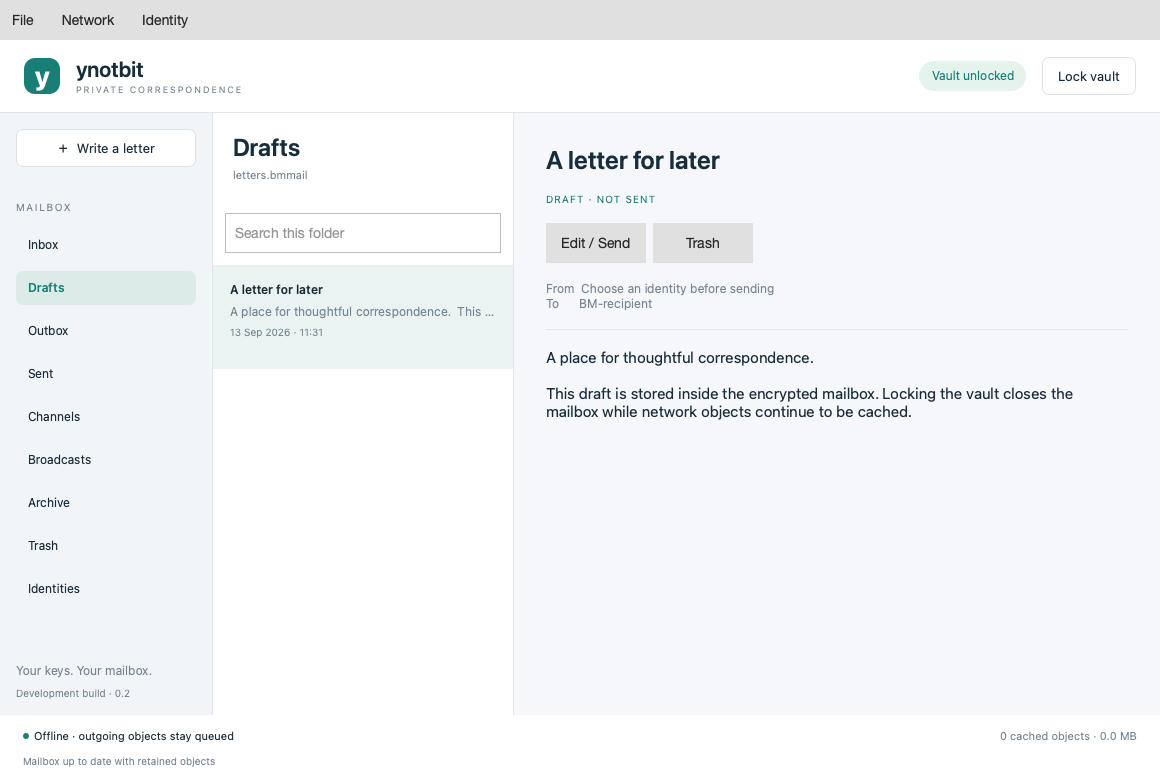
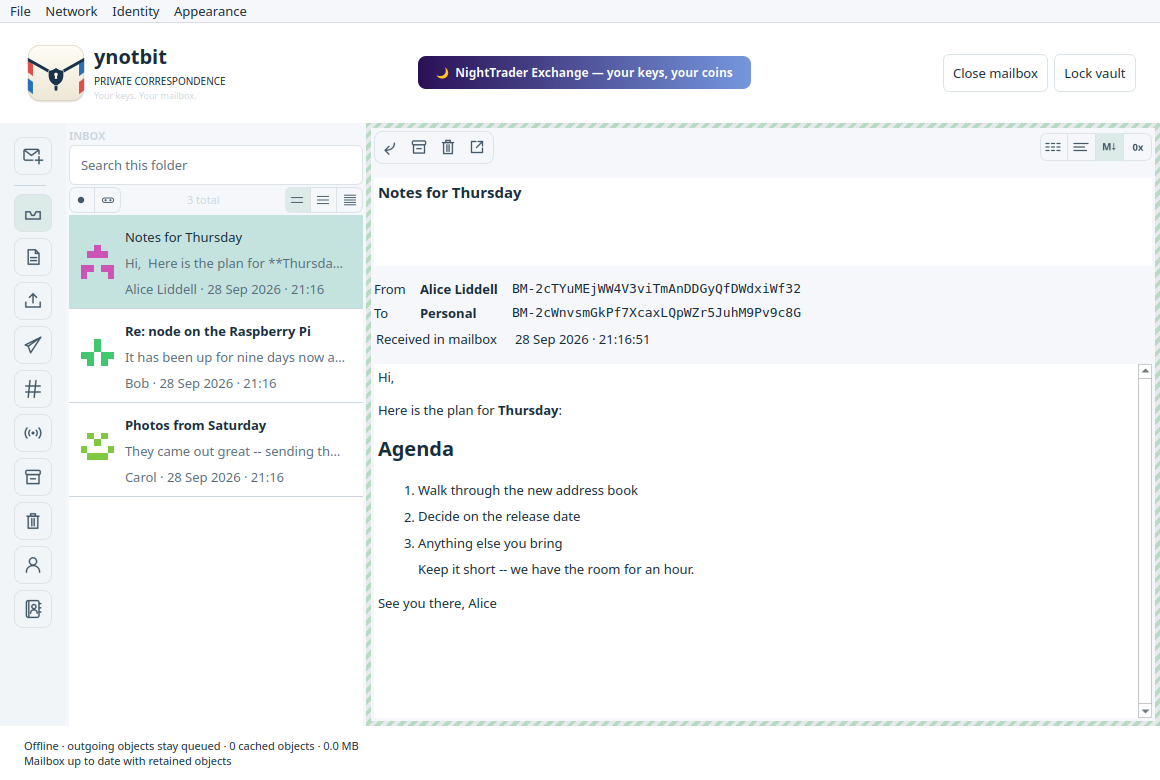
docs: README for 0.5.0 with new screenshots
- New screenshots of the reader, a chan, the address book and the
  composer, rendered from demo data by tools/readme_screenshots
  (built only on request: --target readme_screenshots).
- Describes the address book, chan naming and collapsible list, reader
  views, and notbit on Windows; drops the outdated Qt-relay-on-Windows
  note.

Claude-Session: https://claude.ai/code/session_01GrgRf6yWsg7FyYHpHrsFF4

diff --git a/tools/readme_screenshots.cpp b/tools/readme_screenshots.cpp
@@ -1,0 +1,148 @@
+// Renders the README screenshots from a throwaway demo vault and mailbox:
+//   readme_screenshots <output-dir>
+// Not a test: it only builds realistic sample data and grabs the window.
+#include "desktop_window.h"
+#include "protocol.h"
+#include "session.h"
+#include <QTest>
+#include <QtWidgets>
+#include <iostream>
+
+int main(int argc, char **argv) {
+    QApplication::setAttribute(Qt::AA_DontUseNativeDialogs);
+    QApplication app(argc, argv);
+    app.setOrganizationName("YnotbitScreenshots");
+    app.setApplicationName("Readme");
+    if (argc < 2) {
+        std::cerr << "usage: readme_screenshots <output-dir>\n";
+        return 2;
+    }
+    const QString out = QString::fromLocal8Bit(argv[1]);
+    QDir().mkpath(out);
+    QTemporaryDir temp;
+
+    // People ynotbit's user writes to. Their addresses are real, generated keys.
+    const auto alice = bm::Protocol::identity("readme Alice").address;
+    const auto bob = bm::Protocol::identity("readme Bob").address;
+    const auto carol = bm::Protocol::identity("readme Carol").address;
+
+    bm::Vault vault;
+    vault.create(temp.filePath("vault"), "demo password");
+    const auto me = vault.addIdentity("Personal");
+    const auto general = vault.addChannel("general", {});
+    vault.addChannel("privacy", {});
+    auto key = vault.addMailboxKey();
+    bm::Mailbox mailbox;
+    mailbox.create(temp.filePath("mailbox"), key, vault.mailboxKey(key));
+    qint64 n = 0;
+    auto store = [&](const QString &from, const QString &to, const QString &subject,
+                     const QString &body, const QString &folder) {
+        mailbox.store("demo-" + QString::number(++n), from, to, subject, body, n, folder);
+    };
+    store(carol, me, "Photos from Saturday", "They came out great -- sending the best ones next week.",
+          "Inbox");
+    store(bob, me, "Re: node on the Raspberry Pi",
+          "It has been up for nine days now and relays happily. Memory stays under 60 MB.",
+          "Inbox");
+    store(alice, me, "Notes for Thursday",
+          "Hi,\n\nHere is the plan for **Thursday**:\n\n"
+          "## Agenda\n\n"
+          "1. Walk through the new address book\n"
+          "2. Decide on the release date\n"
+          "3. Anything else you bring\n\n"
+          "> Keep it short -- we have the room for an hour.\n\n"
+          "See you there,\nAlice",
+          "Inbox");
+    store(bob, general, "Welcome to the general chan",
+          "Say hello, share what you are working on, and be kind.", "Channels");
+    store(general, general, "Anyone running ynotbit on Windows?",
+          "Curious how the new release behaves there.", "Channels");
+    store(carol, general, "Re: Anyone running ynotbit on Windows?",
+          "Yes -- the network engine is the same as on Linux now. Works well.", "Channels");
+    mailbox.saveContact(alice, "Alice Liddell");
+    mailbox.saveContact(bob, "Bob");
+    mailbox.saveContact(carol, "Carol");
+    const auto sent = mailbox.saveDraft({}, me, alice, "Re: Notes for Thursday",
+                                        "Sounds good. I will bring the release checklist.");
+    mailbox.queueDraft(sent, "direct", QDateTime::currentSecsSinceEpoch() + 86400);
+    mailbox.setDelivery(sent, "acknowledged");
+    mailbox.close();
+    vault.lock();
+
+    QDir().mkpath(temp.filePath("node"));
+    {
+        QSettings settings(temp.filePath("node/desktop.ini"), QSettings::IniFormat);
+        settings.setValue("vault", temp.filePath("vault"));
+        settings.setValue("mailbox", temp.filePath("mailbox"));
+    }
+    QTimer responder;
+    QObject::connect(&responder, &QTimer::timeout, [&] {
+        for (auto w : QApplication::topLevelWidgets())
+            if (auto d = qobject_cast<QInputDialog *>(w)) {
+                d->setTextValue("demo password");
+                d->accept();
+            }
+    });
+    responder.start(10);
+    bm::Session session(temp.filePath("node"), true);
+    session.unlockVault();
+    if (!session.mailboxOpen()) {
+        std::cerr << "could not open the demo mailbox\n";
+        return 1;
+    }
+    bm::DesktopWindow window(session);
+    window.show();
+    auto folders = window.findChild<QListWidget *>("folders");
+    auto list = window.findChild<QListView *>("letters");
+    auto settle = [] { QTest::qWait(120); };
+    auto shot = [&](const QString &name) {
+        settle();
+        window.grab().save(out + "/" + name);
+        std::cout << (out + "/" + name).toStdString() << "\n";
+    };
+
+    // Inbox, reading Alice's letter (markdown, a named contact).
+    folders->setCurrentRow(0);
+    settle();
+    for (int row = 0; row < list->model()->rowCount(); ++row) {
+        const auto index = list->model()->index(row, 0);
+        if (index.data(Qt::UserRole + 4).toString() == "Notes for Thursday") {
+            list->setCurrentIndex(index);
+            window.selectMessage(index.data(Qt::UserRole + 1).toString());
+        }
+    }
+    shot("desktop.png");
+
+    // A chan, reading a member's post.
+    folders->setCurrentRow(4);
+    settle();
+    for (auto chip : window.findChildren<QPushButton *>("channelChip"))
+        if (chip->text() == "[chan] general")
+            chip->click();
+    settle();
+    if (list->model()->rowCount() > 0) {
+        const auto index = list->model()->index(0, 0);
+        list->setCurrentIndex(index);
+        window.selectMessage(index.data(Qt::UserRole + 1).toString());
+    }
+    shot("channels.png");
+
+    // The address book.
+    folders->setCurrentRow(9);
+    shot("contacts.png");
+
+    // Writing to a contact.
+    QTimer::singleShot(200, &window, [&] {
+        if (auto dialog = window.findChild<QDialog *>("composer")) {
+            dialog->findChild<QLineEdit *>("subjectField")->setText("Thursday");
+            if (auto body = dialog->findChild<QTextEdit *>("bodyField"))
+                body->setPlainText("Looking forward to it -- see you at ten.");
+            settle();
+            dialog->grab().save(out + "/composer.png");
+            std::cout << (out + "/composer.png").toStdString() << "\n";
+            dialog->reject();
+        }
+    });
+    window.compose({{"to", alice}});
+    return 0;
+}

diff --git a/README.md b/README.md
@@ -1,14 +1,18 @@
 # ynotbit — why not bit?
 
 A compact desktop Bitmessage client based on [notbit](https://github.com/bpeel/notbit),
-by [yshurik](https://github.com/yshurik). **Development version: 0.5.0.**
+by [yshurik](https://github.com/yshurik). **Current release: 0.5.0.**
 
 ynotbit keeps identity keys in a password-protected vault and correspondence in a
 separate encrypted mailbox document. Its keyless relay continues collecting
 network objects while the vault is locked. Unlocking inspects retained objects
 and saves matching letters to the mailbox.
 
-![ynotbit desktop with an editable encrypted draft](docs/images/desktop.png)
+![ynotbit reading a Markdown letter from a named contact](docs/images/desktop.png)
+
+| Chans | Contacts | Writing to a contact |
+|---|---|---|
+| ![A chan with member posts](docs/images/channels.png) | ![The address book](docs/images/contacts.png) | ![The composer naming the recipient](docs/images/composer.png) |
 
 ## Download
 
@@ -22,19 +26,24 @@ guarantee.
 1. Create or open a `.bmvault` file. Create an identity, import `keys.dat`, or join
    a chan using its shared phrase and expected address.
 2. Create or open a `.bmmail` document in Documents or another writable folder.
-3. Choose **Write a letter**, select the sender, enter a recipient BM-address,
-   and write. Changes automatically save in the encrypted mailbox.
+3. Choose **Write a letter**, select the sender, and pick a recipient: type a
+   contact's name or a BM-address, or use the contacts button beside **To**.
+   Changes automatically save in the encrypted mailbox.
 4. Choose **Send letter**. Existing drafts have an **Edit / Send** control.
 5. Follow progress in **Outbox**. Key lookup and proof of work can take time;
    recipient acknowledgment is asynchronous and is not a read receipt.
 6. Lock the vault when finished. Preparation pauses, the mailbox closes, and
    the relay continues handling already submitted encrypted network objects.
 
+To name someone, click the person-plus button beside their address in a letter,
+or use **Contacts → Add contact…**. Names then appear in the message list, the
+reader and the composer, always next to the full address.
+
 **File → Back up mailbox and vault** saves both documents. Keep both: a mailbox
 alone cannot recover its encryption key. Changing a password does not invalidate
 old vault copies or backups. Import preserves the original plaintext `keys.dat`.
 
-## Available in this development version
+## Features
 
 - Portable vault: Argon2id (64 MiB, 3 passes) and XChaCha20-Poly1305; guarded key
   allocations; password changes; identity labels; deterministic v3/v4 chans.
@@ -46,19 +55,29 @@ old vault copies or backups. Import preserves the original plaintext `keys.dat`.
 - Direct-message decryption and sender verification; acknowledgments; bounded
   automatic expiry retries; manual retry and cancellation; reply using the
   authenticated sender key. Cancellation cannot recall objects already relayed.
-- Channels have a named selector, separate message lists and search, and a
-  Write to channel action. BM-addresses use a fixed-width font.
+- Address book: contacts with local, private names, kept in the encrypted
+  mailbox and never sent. One-click add from any letter; names in the list,
+  reader and composer (completion by name and a contacts picker); the full
+  address always stays visible beside a name.
+- Channels have a named selector (joined chans are named `[chan] <phrase>`, as in
+  PyBitmessage), separate message lists and search, and a Write to channel
+  action. The chan list collapses to a column of identicons with unread dots.
+  BM-addresses use a fixed-width font; each address has a GitHub-style identicon.
+- The reader frames each letter by kind (personal, chan personal, anonymous chan
+  post, broadcast) and offers plain, text, Markdown and hex views, detecting
+  Markdown and unreadable binary automatically.
 - Message details align sender and recipient addresses, color successful
   acknowledgment, and show the recorded delivery timeline: prepared, key
   available, sent to peers, acknowledged, or received in the mailbox.
 - Broadcast publishing/subscriptions (v4/v5 objects), shared chans, folder search,
   read state, archive, trash/restore, and explicit permanent deletion.
-- A separate notbit relay receives no vault or mailbox keys. Its bounded local
+- A separate notbit relay, on Linux, macOS and Windows, receives no vault or
+  mailbox keys. It identifies itself to peers as `/ynotbit:<version>/`. Its bounded local
   queue accepts network objects, validates proof of work, and records acceptance,
   rejection, and offers to connected peers. Receipt state survives restarts.
-- A Qt-native bounded relay is also available for non-Unix builds (`--qt-node`),
-  with the same object limits, persistence, SOCKS5 support, peer admission rules,
-  and publication receipts. Unix builds continue to use the mature notbit engine.
+- A Qt-native bounded relay remains available as a fallback (`--qt-node`), with
+  the same object limits, persistence, SOCKS5 support, peer admission rules, and
+  publication receipts.
 - The desktop uses Qt Widgets, without QML or Qt Quick. A painted list keeps at
   most three pages of 100 message summaries, loading only the selected body.
 - The composer is a visual Markdown editor. Rendered messages use a safe Markdown
@@ -101,6 +120,10 @@ triplet) instead of `build-dependencies.sh`, and pass
 `.github/workflows/release.yml` for the exact, CI-verified sequence on all three
 platforms.
 
+The README screenshots come from demo data, not a real mailbox. Regenerate them
+with `cmake --build build --target readme_screenshots` and
+`QT_QPA_PLATFORM=offscreen build/readme_screenshots docs/images`.
+
 To package a build for redistribution, with Qt's runtime libraries bundled in:
 
 ```sh
@@ -140,9 +163,12 @@ are not guaranteed erased from all memory, swap, crash dumps or screenshots.
 
 The packaged macOS build targets **Apple Silicon, macOS 15.6+** and bundles its
 runtime dependencies. It is ad-hoc signed, not Developer ID signed or notarized.
-The Windows build uses the Qt-native relay path (`--qt-node`) rather than the
-notbit engine, which is Unix-only; both use the same wire protocol and storage.
-Attachment UI and configurable CPU parallelism are not implemented.
+Since 0.5.0 the Windows build runs the notbit engine too, through a small
+Winsock layer (`third_party/notbit/src/ntb-win32.c`). Windows has no signal the
+app can send the node to stop cleanly, so the node is terminated on exit; work
+the store had queued but not yet written is dropped, as the Qt relay's was.
+The Linux download is a single AppImage. Attachment UI and configurable CPU
+parallelism are not implemented.
 
 `.github/workflows/release.yml` builds, tests, and packages Linux, macOS, and
 Windows on every `v*` tag push (or manual dispatch), then attaches the three
